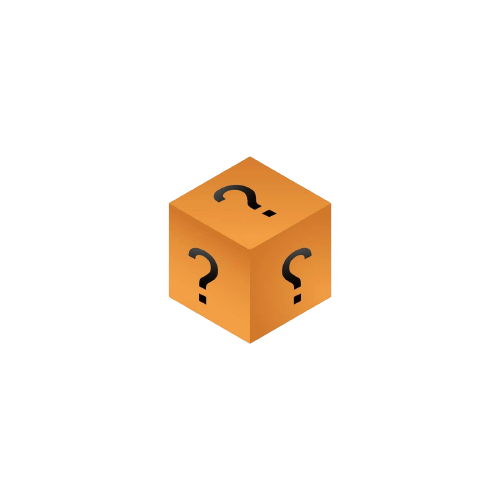
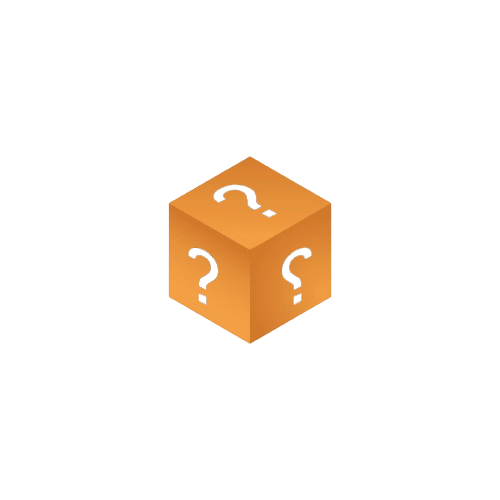
Cambio de imagenes y nueva animacion de la caja abierta

Changed region(s): [[0.54, 0.48, 0.63, 0.63], [0.42, 0.36, 0.57, 0.45], [0.36, 0.48, 0.45, 0.63]]

diff --git a/css/style.css b/css/style.css
@@ -5,11 +5,22 @@ body{
 .rotacion{
     animation: rotate linear 1s;
 }
+.scale{
+    animation: scale linear 1s;
+}
 @keyframes rotate {
     from {
         transform: rotate(0deg);
     }
     to {
         transform: rotate(360deg);
+    }
+}
+@keyframes scale {
+    from {
+        transform: scale(0);
+    }
+    to {
+        transform: rotate(1);
     }
 }

diff --git a/js/app.js b/js/app.js
@@ -11,6 +11,10 @@ function play(){
   boton.classList = "d-none"
   form.classList = "input-group mb-3"
   console.log(`El numero magico:${numeroAleateorio}`);
+  setTimeout(() =>{
+    caja.src= "./src/img/cajaAbierta.png"
+    caja.classList.add('scale');
+  },1100);
 }
 function comprobarNumero(e){
   e.preventDefault();
